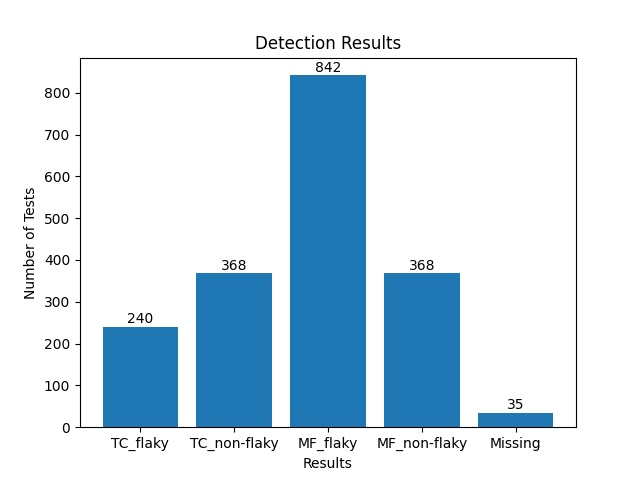
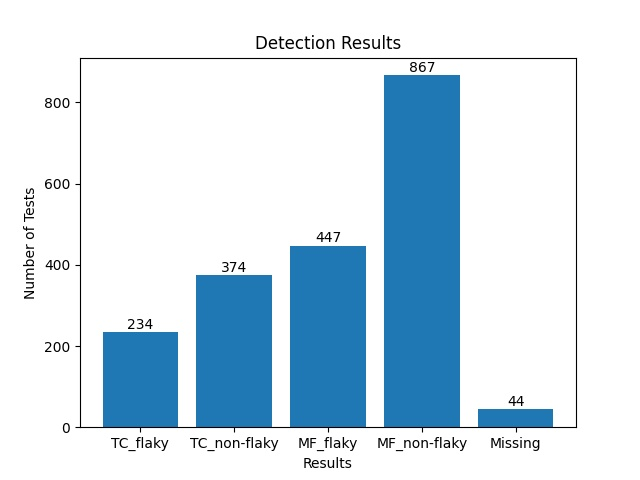
fix bugs

diff --git a/F_Detector/mysql_handler.py b/F_Detector/mysql_handler.py
@@ -770,7 +770,7 @@ def update_detection_result(project_path, start_time='2000-01-01 00:00:00'):
                             dependency_cover = 1
                         factors = [flaky_frequency, dependency_cover, smells, previous_state, size]
                         result, p = KNN_predict('dataset.csv', [factors])
-                        if result == 1:
+                        if p[1] > 0.7:
                             res = 'F'
                         else:
                             res = 'N'
@@ -804,7 +804,7 @@ def update_multi_results():
     db = connect()
     cur = db.cursor()
     sql = """select build_id, failed_test_name, flaky_frequency, statement_cover, smells, previous_state, `size`
-             from failed_tests"""
+             from failed_tests where detection_method='M' and detection_result!='M'"""
     results = search(sql)
     try:
         for test in results:
@@ -815,7 +815,7 @@ def update_multi_results():
 
             factors = [test[2], dependency_cover, test[4], test[5], test[6]]
             result, p = KNN_predict('dataset.csv', [factors])
-            if result == 1:
+            if p[1] > 0.7:
                 res = 'F'
             else:
                 res = 'N'

diff --git a/F_Detector/show.py b/F_Detector/show.py
@@ -381,7 +381,7 @@ def show_detection_results():
     TC_flaky = mh.search_TC_flaky()
     TC_non_flaky = mh.search_TC_non_flaky()
     MF_flaky = mh.search_MF_flaky()
-    MF_non_flaky = mh.search_TC_non_flaky()
+    MF_non_flaky = mh.search_MF_non_flaky()
     Missing = mh.search_missing_factors()
     y_value = [TC_flaky, TC_non_flaky, MF_flaky, MF_non_flaky, Missing]
 
